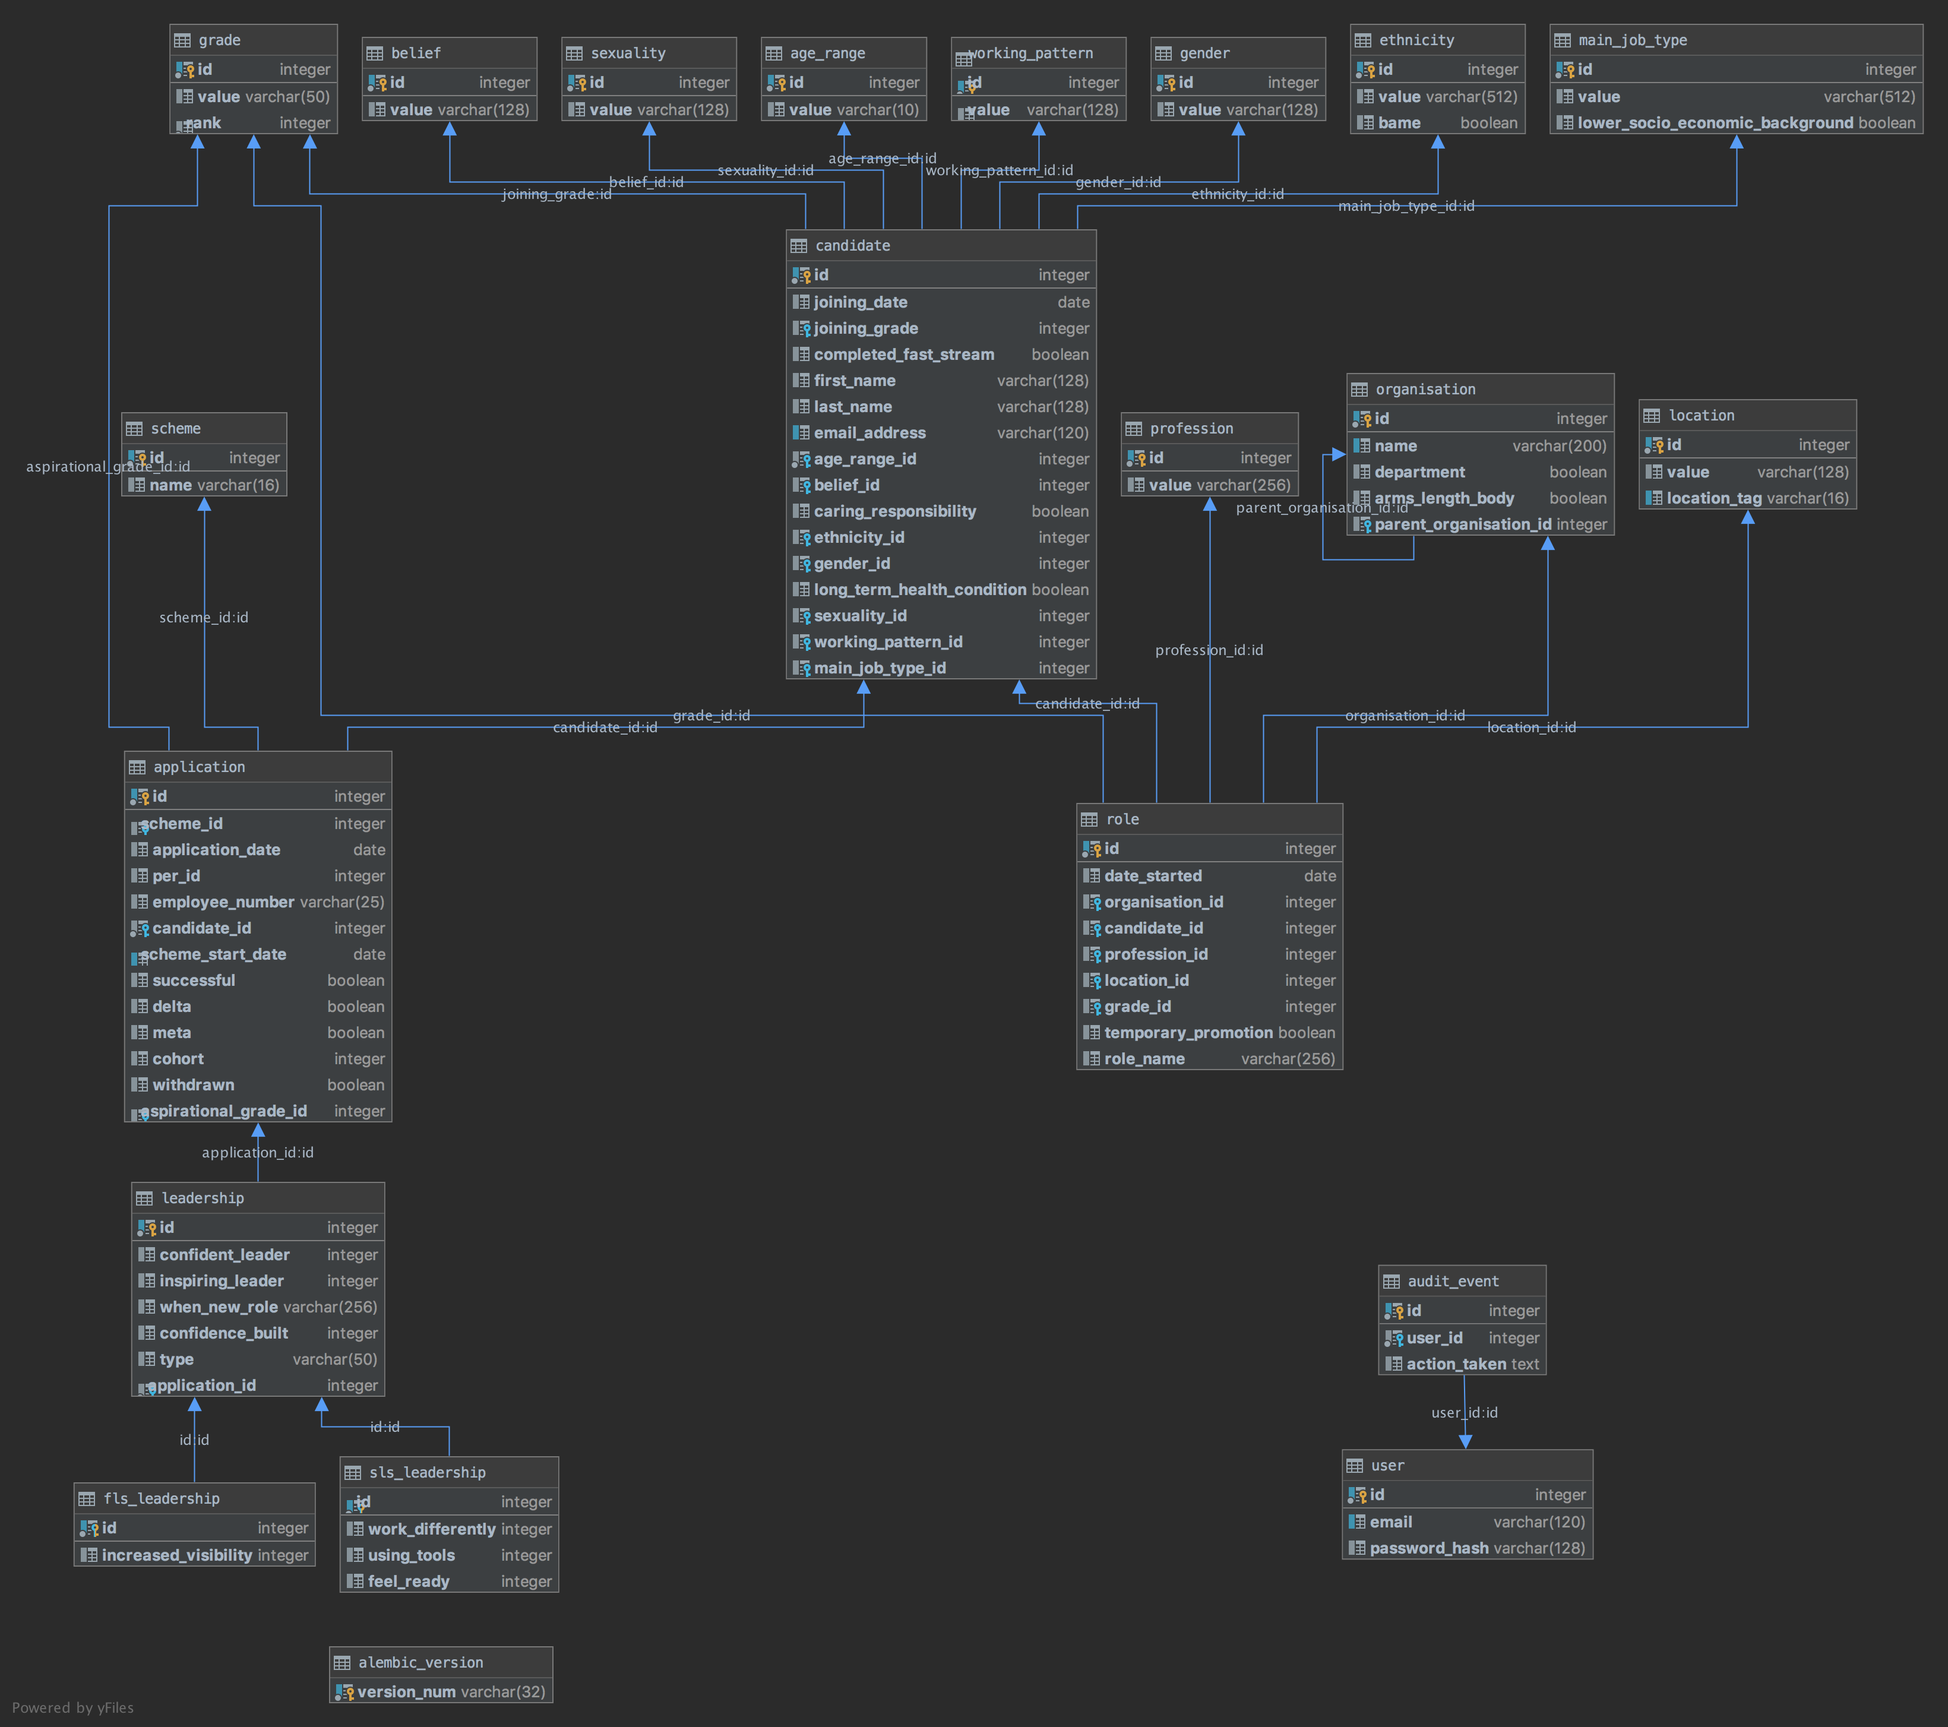
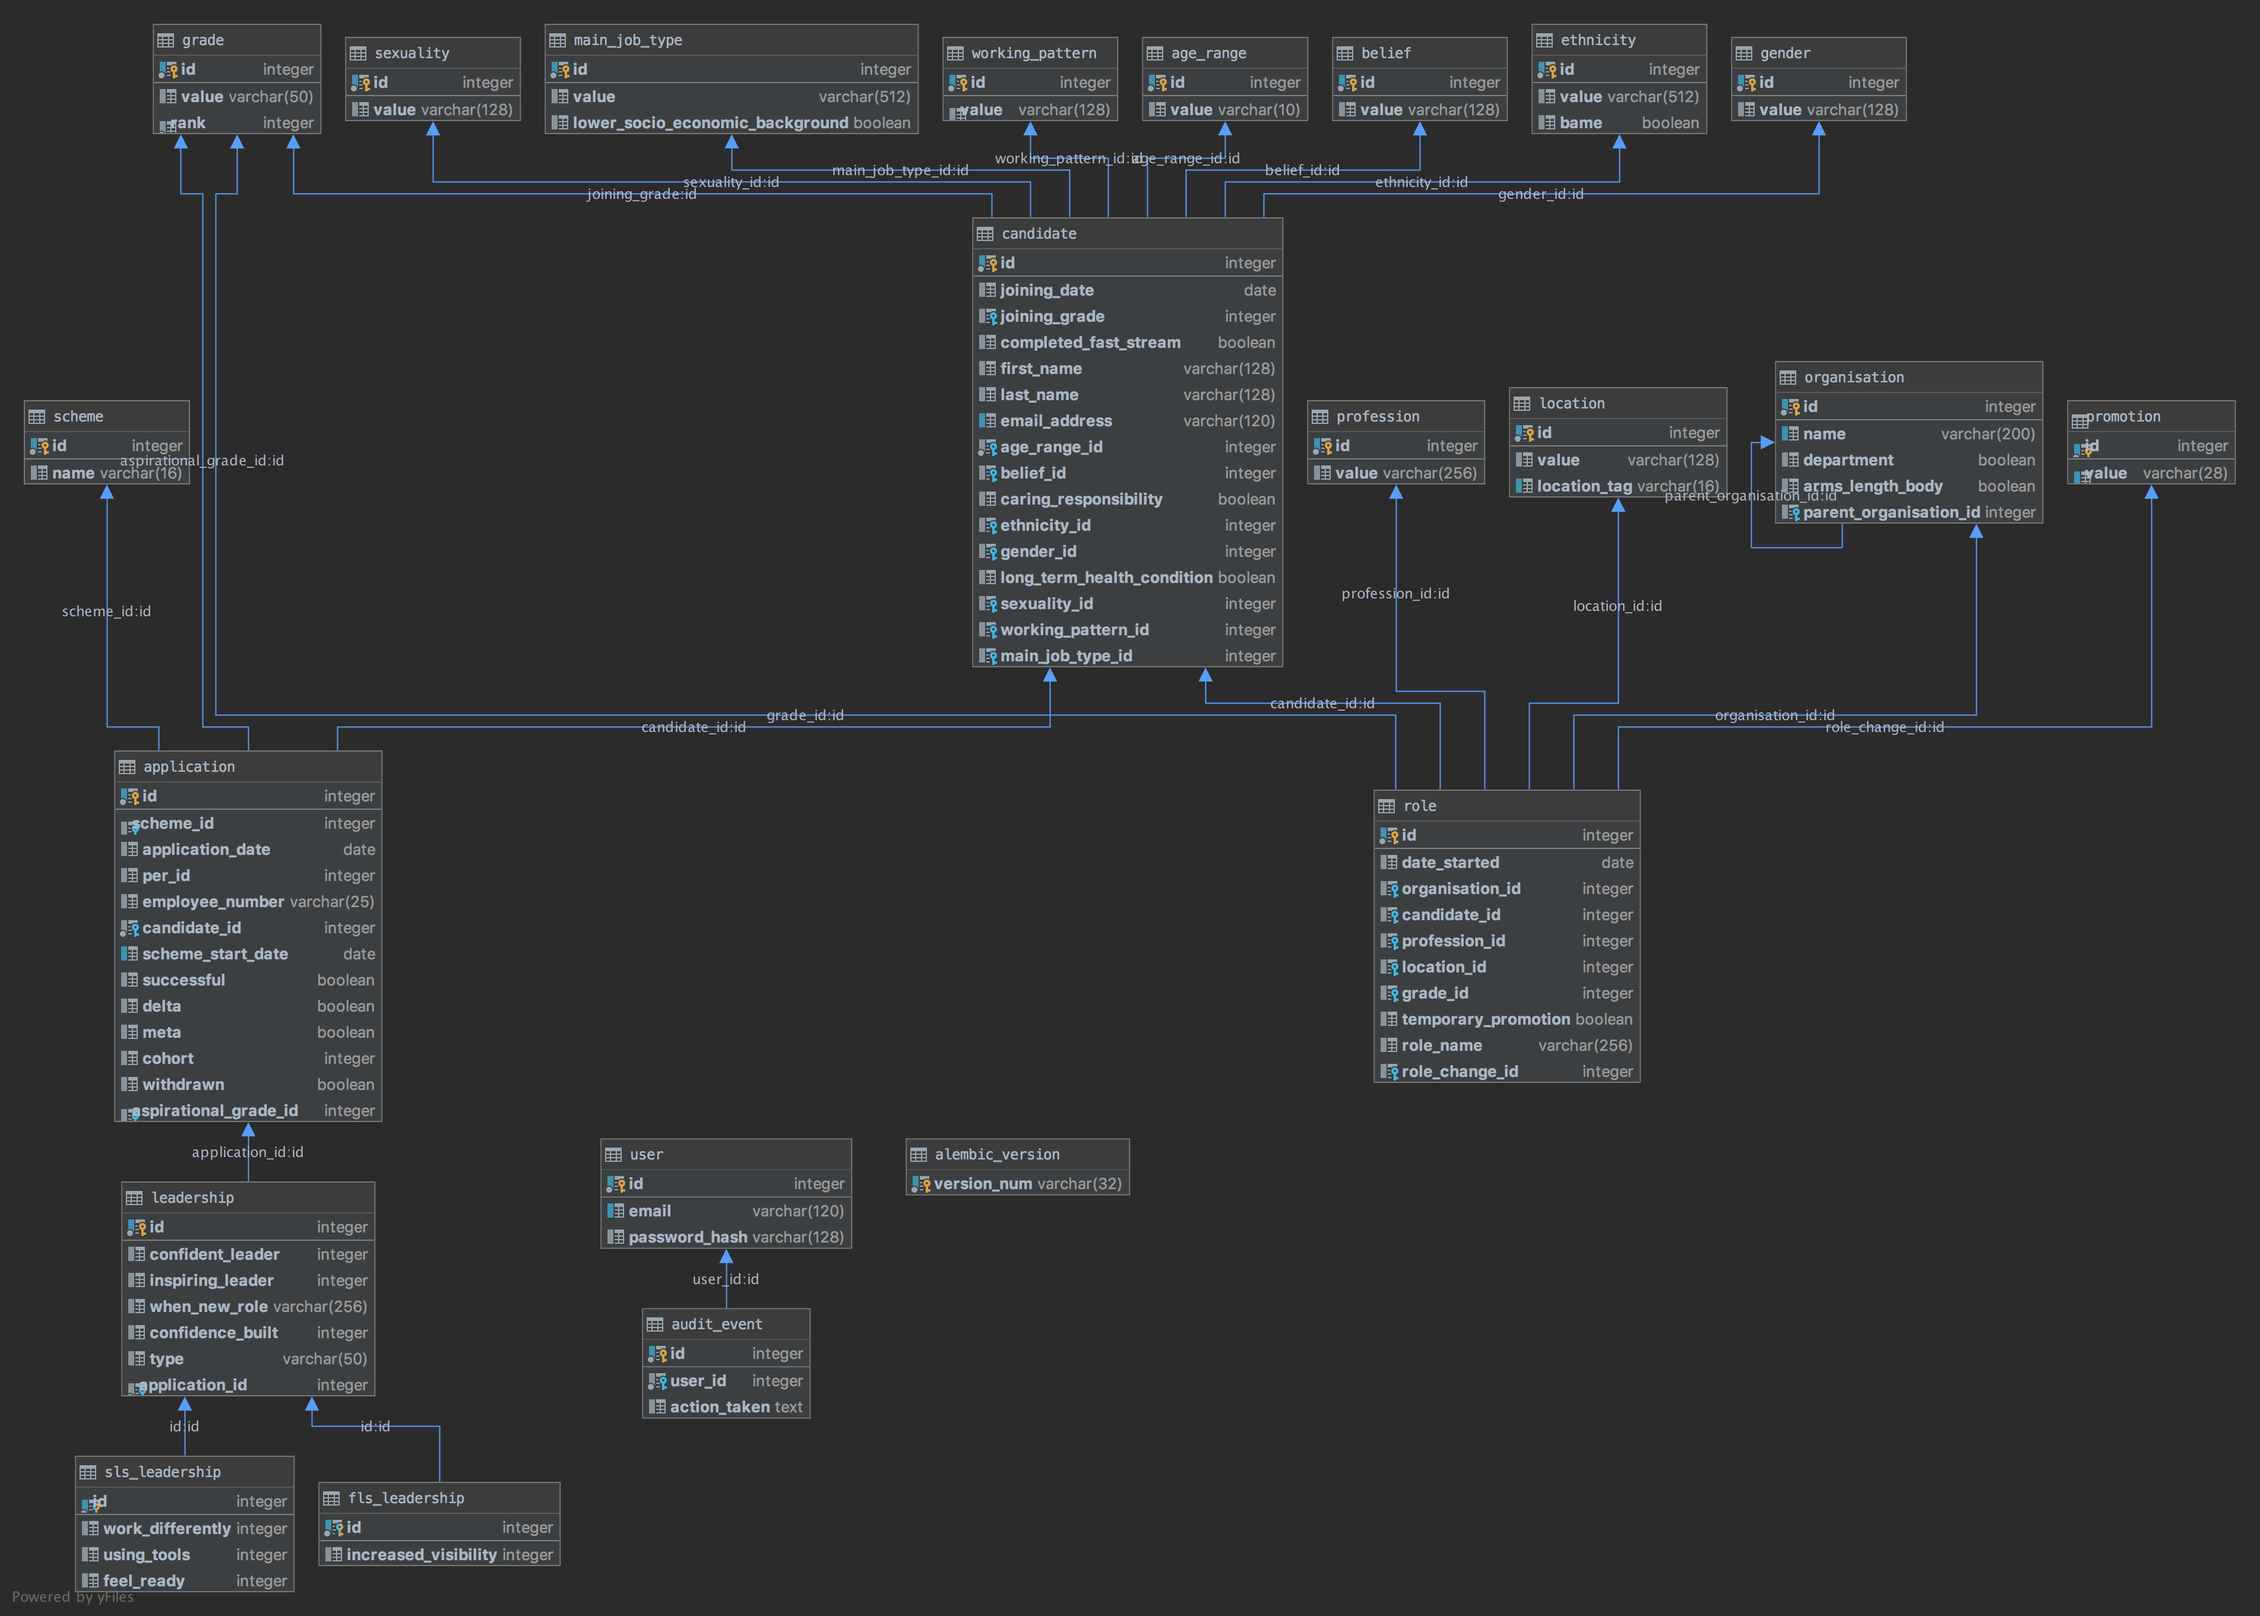
Link Promotion and Role
Also updates ERM

diff --git a/migrations/versions/496431eda64c_link_role_and_promotion.py b/migrations/versions/496431eda64c_link_role_and_promotion.py
@@ -1,0 +1,30 @@
+"""Link Role and Promotion
+
+Revision ID: 496431eda64c
+Revises: c3c47033fefa
+Create Date: 2019-07-09 14:37:13.940190
+
+"""
+from alembic import op
+import sqlalchemy as sa
+
+
+# revision identifiers, used by Alembic.
+revision = '496431eda64c'
+down_revision = 'c3c47033fefa'
+branch_labels = None
+depends_on = None
+
+
+def upgrade():
+    # ### commands auto generated by Alembic - please adjust! ###
+    op.add_column('role', sa.Column('role_change_id', sa.Integer(), nullable=True))
+    op.create_foreign_key(None, 'role', 'promotion', ['role_change_id'], ['id'])
+    # ### end Alembic commands ###
+
+
+def downgrade():
+    # ### commands auto generated by Alembic - please adjust! ###
+    op.drop_constraint(None, 'role', type_='foreignkey')
+    op.drop_column('role', 'role_change_id')
+    # ### end Alembic commands ###

diff --git a/app/models.py b/app/models.py
@@ -193,10 +193,12 @@ class Role(db.Model):
     profession_id = db.Column(db.ForeignKey('profession.id'))
     location_id = db.Column(db.ForeignKey('location.id'))
     grade_id = db.Column(db.ForeignKey('grade.id'))
+    role_change_id = db.Column(db.ForeignKey('promotion.id'))
 
     grade = db.relationship('Grade', lazy='select')
     location = db.relationship('Location', lazy='select')
     profession = db.relationship('Profession', lazy='select')
+    role_change = db.relationship('Promotion', lazy='select')
 
     def __repr__(self):
         return f'<Role held by {self.candidate} at {self.organisation_id}>'
